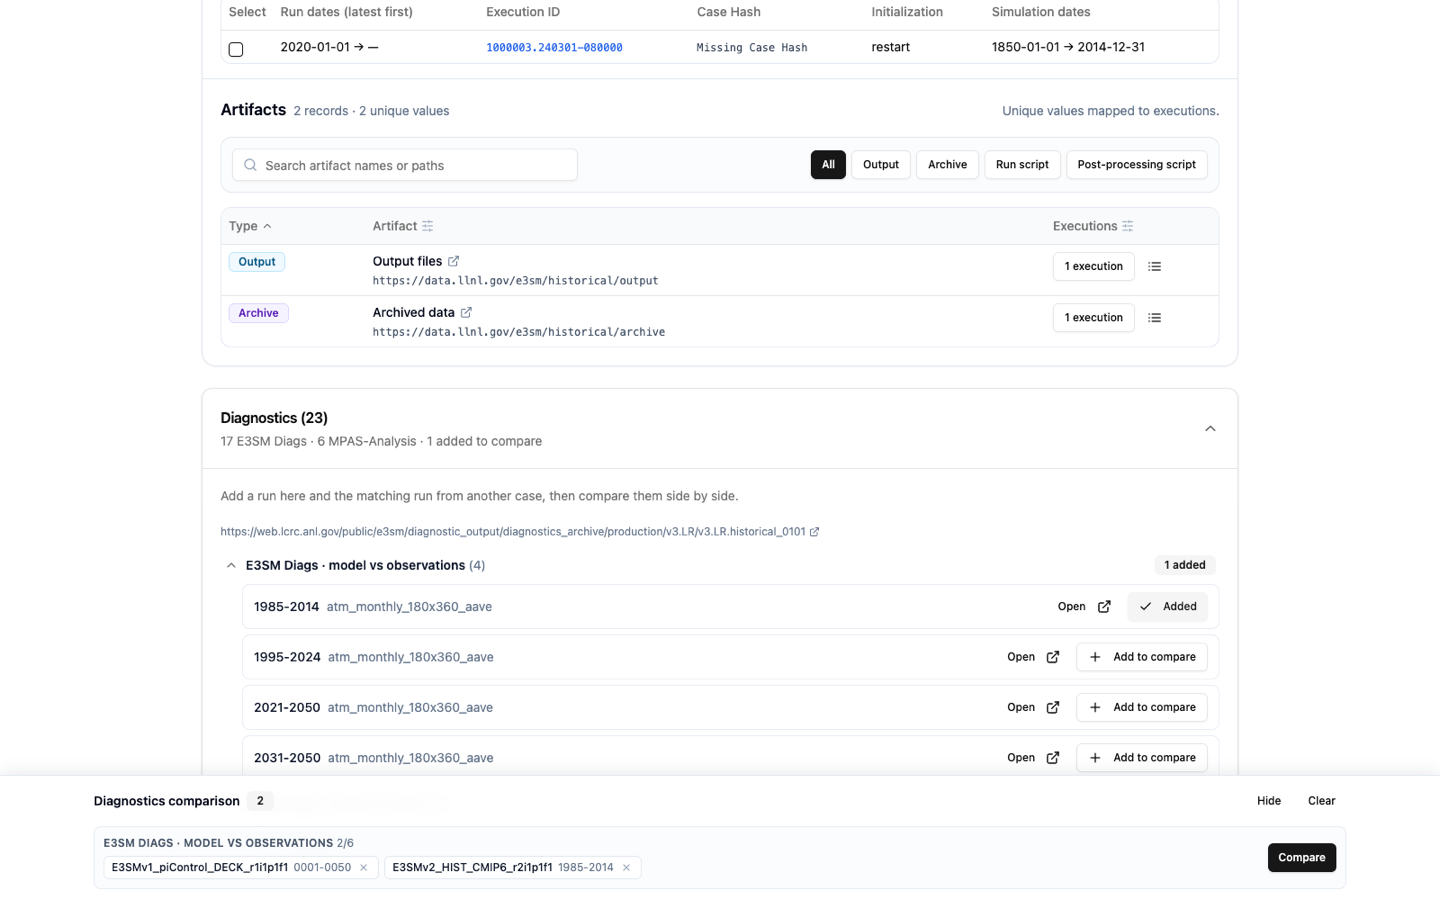
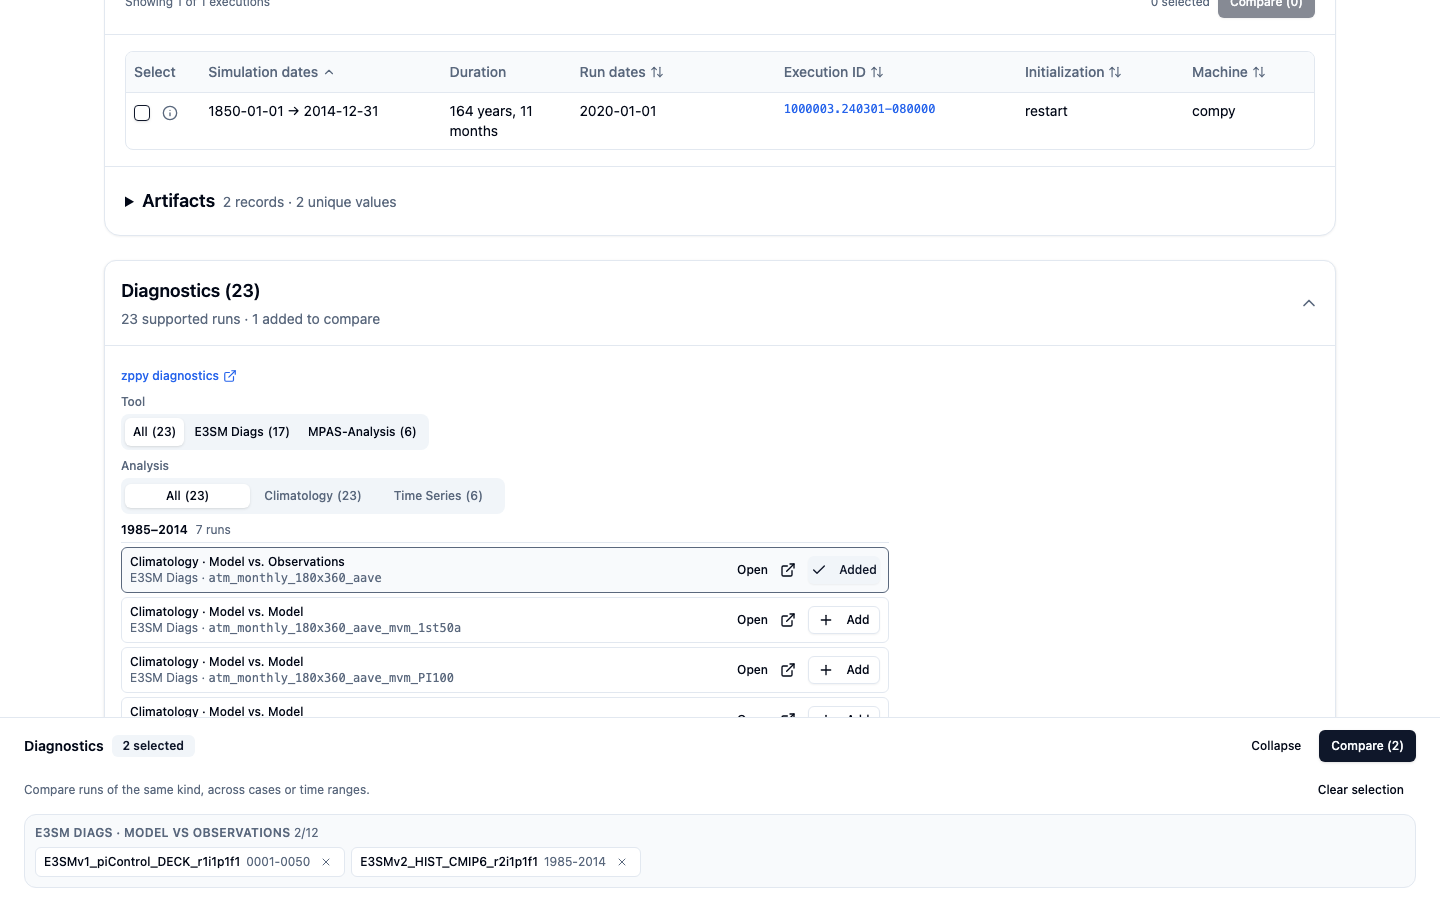
Refresh diagnostics user guide screenshots
Retake both screenshots against the current case page, comparison tray,
and compare view, and update their alt text to match.

diff --git a/docs/user/compare-diagnostics.md b/docs/user/compare-diagnostics.md
@@ -31,7 +31,7 @@ or comparison types are selected.
 Resources keep their original output links. **View in Diagnostics**, when
 available, expands the matching structured diagnostics section.
 
-![A case's diagnostics runs, with two runs in the comparison bar](images/diagnostics-case-runs.png)
+![A case's diagnostics runs, with two runs in the comparison tray](images/diagnostics-case-runs.png)
 
 ## From the Diagnostics workspace
 
@@ -67,7 +67,7 @@ case name, for example `!ECwISC30to60E2r1.CRYO1850.N2dependent yrs 1-10`.
 
 ## The comparison
 
-![Two runs compared, with the shared reference beneath](images/diagnostics-compare.png)
+![Two runs compared, each with its reference beneath](images/diagnostics-compare.png)
 
 | Control             | What it does                                                                                                                                                                                                                                                                 |
 | ------------------- | ---------------------------------------------------------------------------------------------------------------------------------------------------------------------------------------------------------------------------------------------------------------------------- |
